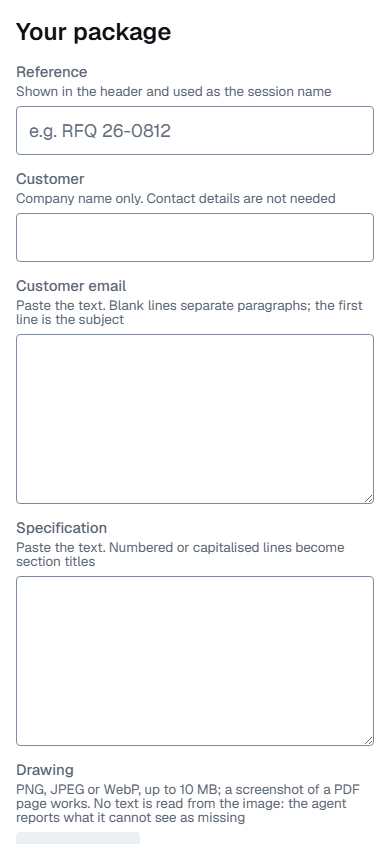
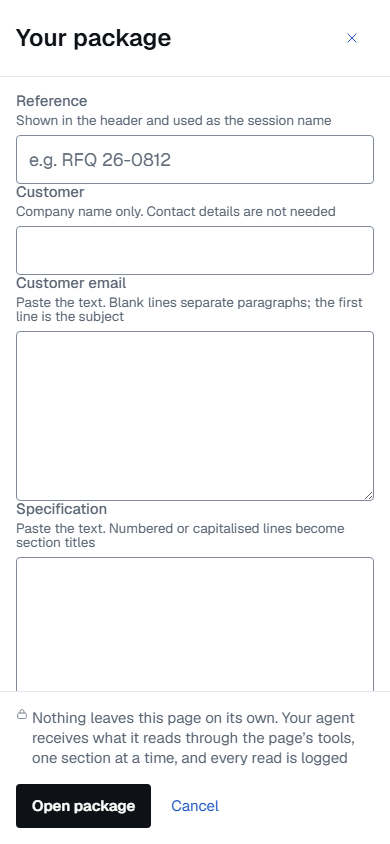
P5 fix: the dialog is a header, a scrolling body and a footer
The whole form scrolled as one, so the primary action sat below the fold on a
1080-tall screen and the title left with it. The dialog is now three parts: a
header with the title and a close icon that does what Cancel does, a body that
carries the fields and is the only thing that scrolls, and a footer holding the
privacy line over the actions. A hairline separates each end from the body, and
on the full-height sheet the footer clears the device's safe area. ConfirmDialog
is built the same way, so one question reads as a short form and not as another
kind of window.

Evidence: dialog-scrolled at 1920 and 390, taken halfway down the body with
both ends still in view, and the end-to-end test asserts that.

diff --git a/src/components/OpenPackageDialog.tsx b/src/components/OpenPackageDialog.tsx
@@ -1,6 +1,6 @@
 import { useEffect, useId, useRef, useState, type FormEvent } from 'react';
 import { ACCEPTED_IMAGE_TYPES, prepareDrawing as prepare_, type DrawingErrorCode } from '../data/prepare-drawing';
-import { LockIcon, OpposingArrowsIcon } from '../icons';
+import { CrossIcon, LockIcon, OpposingArrowsIcon } from '../icons';
 import { Button } from './Button';
 
 /**
@@ -139,9 +139,18 @@ export function OpenPackageDialog({
 
   return (
     <dialog aria-labelledby={`${id}-title`} className="dialog" onClose={onCancel} ref={dialogRef}>
+      {/* Three parts: a header and a footer that stay, and the body between
+          them, which is the only thing that scrolls. A person filling the last
+          field can still see what the button under it will do. */}
       <form className="dialog__form" onSubmit={event => void submit(event)}>
-        <h2 className="dialog__title" id={`${id}-title`}>Your package</h2>
+        <header className="dialog__header">
+          <h2 className="dialog__title" id={`${id}-title`}>Your package</h2>
+          <Button aria-label="Close" className="dialog__close" onClick={onCancel} variant="text">
+            <CrossIcon />
+          </Button>
+        </header>
 
+        <div className="dialog__body">
         <div className="dialog__field">
           <label className="dialog__label" htmlFor={fieldId('reference')}>Reference</label>
           <p className="dialog__hint" id={hintId('reference')}>Shown in the header and used as the session name</p>
@@ -236,17 +245,21 @@ export function OpenPackageDialog({
           {error('drawing')}
         </div>
 
-        <p className="dialog__privacy">
-          <LockIcon />
-          Nothing leaves this page on its own. Your agent receives what it reads through the page’s tools,
-          one section at a time, and every read is logged
-        </p>
-
-        <div className="dialog__actions">
-          <Button size="large" type="submit" variant="primary">Open package</Button>
-          <Button onClick={onCancel} variant="text">Cancel</Button>
-          {onUseSample ? <Button onClick={onUseSample} variant="text">Use the sample package</Button> : null}
         </div>
+
+        <footer className="dialog__footer">
+          <p className="dialog__privacy">
+            <LockIcon />
+            Nothing leaves this page on its own. Your agent receives what it reads through the page’s tools,
+            one section at a time, and every read is logged
+          </p>
+
+          <div className="dialog__actions">
+            <Button size="large" type="submit" variant="primary">Open package</Button>
+            <Button onClick={onCancel} variant="text">Cancel</Button>
+            {onUseSample ? <Button onClick={onUseSample} variant="text">Use the sample package</Button> : null}
+          </div>
+        </footer>
       </form>
     </dialog>
   );

diff --git a/src/components/OpenPackageDialog.test.tsx b/src/components/OpenPackageDialog.test.tsx
@@ -143,6 +143,49 @@ describe('what the dialog refuses to open', () => {
   });
 });
 
+describe('P5: the dialog is a header, a scrolling body and a footer', () => {
+  test('the header carries the title and a close that does what Cancel does', async () => {
+    const onCancel = vi.fn();
+    const { container, user } = setup({ onCancel });
+    const header = container.querySelector('.dialog__header')!;
+
+    expect(within(header as HTMLElement).getByRole('heading', { name: 'Your package' })).toBeInTheDocument();
+    await user.click(within(header as HTMLElement).getByRole('button', { name: 'Close' }));
+    expect(onCancel).toHaveBeenCalledOnce();
+  });
+
+  test('every field stands in the body, and nothing else does', () => {
+    const { container } = setup();
+    const body = container.querySelector('.dialog__body')!;
+
+    expect(body.querySelectorAll('.dialog__field')).toHaveLength(5);
+    expect(body.querySelector('.dialog__actions')).toBeNull();
+    expect(body.querySelector('.dialog__privacy')).toBeNull();
+  });
+
+  test('the footer keeps the privacy line over the actions, out of the scrolling body', () => {
+    const { container } = setup({ onUseSample: vi.fn() });
+    const footer = container.querySelector('.dialog__footer')!;
+
+    expect(footer.querySelector('.dialog__privacy')).not.toBeNull();
+    expect(within(footer as HTMLElement).getAllByRole('button').map(button => button.textContent))
+      .toEqual(['Open package', 'Cancel', 'Use the sample package']);
+  });
+
+  test('the body is the only part that scrolls', () => {
+    // Comments carry braces of their own in prose, so they go before the match.
+    const componentsCss = readFileSync('src/styles/components.css', 'utf8').replace(/\/\*[\s\S]*?\*\//g, '');
+    const rule = (selector: string): string => {
+      const head = componentsCss.indexOf(selector + ' {');
+      return head < 0 ? '' : componentsCss.slice(head, componentsCss.indexOf('}', head));
+    };
+
+    expect(rule('.dialog__body')).toMatch(/overflow-y:\s*auto/);
+    expect(rule('.dialog')).toMatch(/overflow:\s*hidden/);
+    expect(rule('.dialog__form')).not.toMatch(/overflow-y:\s*auto/);
+  });
+});
+
 describe('the image a person attaches', () => {
   test('is named beside the button once it is chosen', async () => {
     const { container, user } = setup();

diff --git a/src/styles/components.css b/src/styles/components.css
@@ -1725,12 +1725,35 @@
   }
 }
 
+/* Header, body, footer: the two ends hold their place and the body carries the
+   scroll, so the actions and the title are in view at every scroll position.
+   `minmax(0, 1fr)` is what lets the middle row shrink and scroll at all. */
 .dialog__form {
   display: grid;
-  gap: var(--space-4);
+  grid-template-rows: auto minmax(0, 1fr) auto;
   max-block-size: inherit;
+  block-size: 100%;
+}
+
+.dialog__header {
+  display: flex;
+  align-items: center;
+  justify-content: space-between;
+  gap: var(--space-4);
+  padding: var(--space-4) var(--space-6);
+  border-block-end: var(--rule-width) solid var(--hairline);
+}
+
+.dialog__body {
   padding: var(--space-6);
   overflow-y: auto;
+}
+
+.dialog__footer {
+  display: grid;
+  gap: var(--space-4);
+  padding: var(--space-4) var(--space-6);
+  border-block-start: var(--rule-width) solid var(--hairline);
 }
 
 .dialog__title {
@@ -1822,6 +1845,14 @@
   gap: var(--space-2);
 }
 
+/* The close carries only its glyph, so it takes the compact height as a square
+   and reaches the narrow target through the rule below. */
+.dialog__close {
+  flex: none;
+  min-width: var(--control-compact);
+  padding-inline: 0;
+}
+
 .session-import:has(input:focus-visible) {
   outline: var(--ring-width) solid var(--accent);
   outline-offset: var(--ring-width);
@@ -1856,8 +1887,24 @@
     border-radius: 0;
   }
 
-  .dialog__form {
+  .dialog__header,
+  .dialog__footer {
     padding: var(--space-4);
+  }
+
+  .dialog__body {
+    padding: var(--space-4);
+  }
+
+  /* The sheet reaches the bottom of the viewport, so the footer keeps clear of
+     whatever the device draws over it. */
+  .dialog__footer {
+    padding-block-end: max(var(--space-4), env(safe-area-inset-bottom));
+  }
+
+  .dialog__close {
+    min-width: var(--control-large);
+    min-height: var(--control-large);
   }
 
   .dialog__actions .button {

diff --git a/e2e/own-package.spec.ts b/e2e/own-package.spec.ts
@@ -563,10 +563,27 @@ for (const width of [1920, 390]) {
     await field(page, 'Customer email').fill(EMAIL);
     await field(page, 'Specification').fill(SPEC);
     await field(page, 'Drawing').setInputFiles({ name: 'sheet.png', mimeType: 'image/png', buffer: PNG });
-    // Filling scrolled the form to the field last touched; the shot is of the
+    // Filling scrolled the body to the field last touched; the shot is of the
     // whole form, so it goes back to the top first.
-    await dialog(page).locator('.dialog__form').evaluate(form => { form.scrollTop = 0; });
+    await dialog(page).locator('.dialog__body').evaluate(body => { body.scrollTop = 0; });
     await shot('dialog-filled');
+
+    // Halfway down the body, the header and the footer are both still there.
+    const scrolled = await dialog(page).locator('.dialog__body').evaluate(body => {
+      body.scrollTop = Math.round((body.scrollHeight - body.clientHeight) / 2);
+      return body.scrollTop;
+    });
+    expect(scrolled).toBeGreaterThan(0);
+    const frame = (await dialog(page).boundingBox())!;
+    for (const part of ['.dialog__header', '.dialog__footer']) {
+      const box = (await dialog(page).locator(part).boundingBox())!;
+      expect(box.y).toBeGreaterThanOrEqual(frame.y - 1);
+      expect(box.y + box.height).toBeLessThanOrEqual(frame.y + frame.height + 1);
+    }
+    await expect(dialog(page).getByRole('heading', { name: 'Your package' })).toBeInViewport();
+    await expect(dialog(page).getByRole('button', { name: 'Open package' })).toBeInViewport();
+    await shot('dialog-scrolled');
+    await dialog(page).locator('.dialog__body').evaluate(body => { body.scrollTop = 0; });
     await page.getByRole('button', { name: 'Open package' }).click();
     await expect(dialog(page)).toBeHidden();
     await shot('package-open-all-three');

diff --git a/src/components/ConfirmDialog.tsx b/src/components/ConfirmDialog.tsx
@@ -1,4 +1,5 @@
 import { useEffect, useId, useRef } from 'react';
+import { CrossIcon } from '../icons';
 import { Button } from './Button';
 
 /**
@@ -29,13 +30,24 @@ export function ConfirmDialog({ confirmLabel, message, onCancel, onConfirm, open
 
   return (
     <dialog aria-labelledby={`${id}-title`} className="dialog dialog--confirm" onClose={onCancel} ref={dialogRef}>
+      {/* The same three parts as the package dialog, so one question looks like
+          a short version of the form and not like another kind of window. */}
       <div className="dialog__form">
-        <h2 className="dialog__title" id={`${id}-title`}>{title}</h2>
-        <p className="dialog__message">{message}</p>
-        <div className="dialog__actions">
-          <Button onClick={onConfirm} size="large" variant="primary">{confirmLabel}</Button>
-          <Button onClick={onCancel} variant="text">Cancel</Button>
+        <header className="dialog__header">
+          <h2 className="dialog__title" id={`${id}-title`}>{title}</h2>
+          <Button aria-label="Close" className="dialog__close" onClick={onCancel} variant="text">
+            <CrossIcon />
+          </Button>
+        </header>
+        <div className="dialog__body">
+          <p className="dialog__message">{message}</p>
         </div>
+        <footer className="dialog__footer">
+          <div className="dialog__actions">
+            <Button onClick={onConfirm} size="large" variant="primary">{confirmLabel}</Button>
+            <Button onClick={onCancel} variant="text">Cancel</Button>
+          </div>
+        </footer>
       </div>
     </dialog>
   );

diff --git a/tasks/P5-own-package.md b/tasks/P5-own-package.md
@@ -54,7 +54,7 @@ No new dependency. `reducer.ts`, the action unions, the tool descriptions and sc
 
 ### Dialog
 
-A native `<dialog>` (modal; `Esc` closes; focus trapped by the element; focus returns to the button that opened it), width `min(720px, 100% - 2 * --page-margin)`, on narrow a full-height sheet with the same content. Title "Your package" (`--text-xl`). Fields, in order, each with a visible label above (md, `--ink-secondary`) and a hint line under it in sm:
+A native `<dialog>` (modal; `Esc` closes; focus trapped by the element; focus returns to the button that opened it), width `min(720px, 100% - 2 * --page-margin)`, on narrow a full-height sheet with the same content. **Amended 2026-09-02 after the owner's look at the preview:** the dialog is a header, a scrolling body and a footer, per `DESIGN.md` § Components, **Dialog anatomy** — the title and a close icon button in the header, the fields in the body, the privacy line and the actions in the footer, and only the body scrolls. `ConfirmDialog` takes the same three parts. Title "Your package" (`--text-xl`). Fields, in order, each with a visible label above (md, `--ink-secondary`) and a hint line under it in sm:
 
 1. `Reference` — single-line input, required, placeholder `e.g. {reference}` where `{reference}` is the sample's `reference` from `data/package.json` (a placeholder attribute, never a prefilled value); hint "Shown in the header and used as the session name".
 2. `Customer` — single-line input, optional; hint "Company name only. Contact details are not needed".
@@ -62,7 +62,7 @@ A native `<dialog>` (modal; `Esc` closes; focus trapped by the element; focus re
 4. `Specification` — `<textarea>`, optional when a drawing is attached (§ Validation), hint "Paste the text. Numbered or capitalised lines become section titles".
 5. `Drawing` — `<input type="file" accept="image/png,image/jpeg,image/webp">` fronted by a secondary compact button `Choose image` and the chosen file's name; optional when a specification is pasted; hint "PNG, JPEG or WebP, up to 10 MB; a screenshot of a PDF page works. No text is read from the image: the agent reports what it cannot see as missing". The image is re-encoded before use (§ Image).
 6. A line in `--ink-secondary` with the lock icon: "Nothing leaves this page on its own. Your agent receives what it reads through the page’s tools, one section at a time, and every read is logged" — the honest version of T2/T3 for user content. It must not claim that the data stays in the browser: what the agent reads reaches the agent's provider.
-7. Actions: `Open package` (the dialog's primary, large — a dialog is a screen, per the § Interaction states line this task adds) · `Cancel` (text) · `Use the sample package` (text, only while a user package is open).
+7. Actions, in the footer under the privacy line: `Open package` (the dialog's primary, large — a dialog is a screen, per the § Interaction states line this task adds) · `Cancel` (text) · `Use the sample package` (text, only while a user package is open). The header's close does what `Cancel` does.
 
 Validation on `Open package`: reference empty → "Enter a reference"; email empty → "Paste the customer email"; spec empty and no drawing → "Add the specification or a drawing" (under the Specification field); email or spec over 40,000 characters → "The {document} is longer than 40,000 characters; paste the relevant part"; file of another type (HEIC, PDF, SVG, …) → "Choose a PNG, JPEG or WebP. A screenshot of the PDF page works"; file over 10 MB → "Choose an image under 10 MB"; a file that does not decode → "This file could not be opened as an image". Errors per field in `--state-conflict` with the conflict icon and `aria-describedby`; the first invalid field takes focus. The page never decides whether the image is a drawing: the person sees it in the Drawing tab, and the agent's `report_missing` covers content that is not an RFQ.
 

diff --git a/DESIGN.md b/DESIGN.md
@@ -142,7 +142,9 @@ The shared primitives, one row each. A task adds a modifier to a row that is her
 | Disclosure | rendered by `FieldList` (the verified group) and `ChangeLogDrawer` (the collapsed bar and the sheet) | a text button carrying the chevron icon, with `aria-expanded` and `aria-controls` | collapsed, expanded | the text button's heights |
 | Inline editor | `InlineEditor` | `.inline-editor` with `__context`, `__label`, `__controls`, `__field`, `__input`, `__units`, `__error`, `__hint`, `__keys` | open on a proposal, on an empty field, on a unit-bearing field with no unit, and in validation | the input and the unit control both `--control-input`; below 1024px `--control-large` plus the group's two hairlines |
 | Sheet | rendered by `SourcePane` (the narrow source) and `ChangeLogDrawer` (the narrow log) | `.source-pane--sheet`, `.change-log__sheet` | closed, open (modal, body scroll locked, focus returned on close) | full height below 1024px; the log sheet 40vh above it |
-| Dialog | `OpenPackageDialog` and `ConfirmDialog` | `.dialog`, `.dialog--confirm`, with `__form`, `__title`, `__field`, `__label`, `__hint`, `__input`, `__textarea`, `__file`, `__file-name`, `__privacy`, `__message`, `__error`, `__actions` | closed, open, per-field validation | `min(720px, 100% - 2 * --page-margin)` wide and at most 85vh, `--confirm` `min(480px, …)`; a full-height sheet below 1024px; its one primary `--control-large` |
+| Dialog | `OpenPackageDialog` and `ConfirmDialog` | `.dialog`, `.dialog--confirm`, with `__form`, `__header`, `__title`, `__close`, `__body`, `__footer`, `__field`, `__label`, `__hint`, `__input`, `__textarea`, `__file`, `__file-name`, `__privacy`, `__message`, `__error`, `__actions` | closed, open, per-field validation | `min(720px, 100% - 2 * --page-margin)` wide and at most 85vh, `--confirm` `min(480px, …)`; a full-height sheet below 1024px; its one primary `--control-large` |
+
+**Dialog anatomy.** Every dialog is three parts, and both of the components above build them: a **header** carrying the title and a close icon button at the right end (the cross glyph, accessible name "Close", doing what `Cancel` does; compact height at the two-column widths and `--control-large` below the breakpoint); a **body** holding the content, which is the only part that scrolls (`overflow-y: auto` on the body — never on the dialog, the form or the page); and a **footer** carrying the actions, with the privacy line above them in the package dialog, in view at every scroll position. A hairline separates each end from the body. On the full-height sheet below 1024px the three parts are the same and the footer sits at the bottom of the viewport, its block-end padding clearing the device's safe area.
 
 **Change-log header by state.** The expanded log carries the actions of the state it is in and no others. `Play sample session` and the way into a package of your own are the status strip's before a session starts, and the confirm summary's after one is over; the log offers neither at any width.
 
